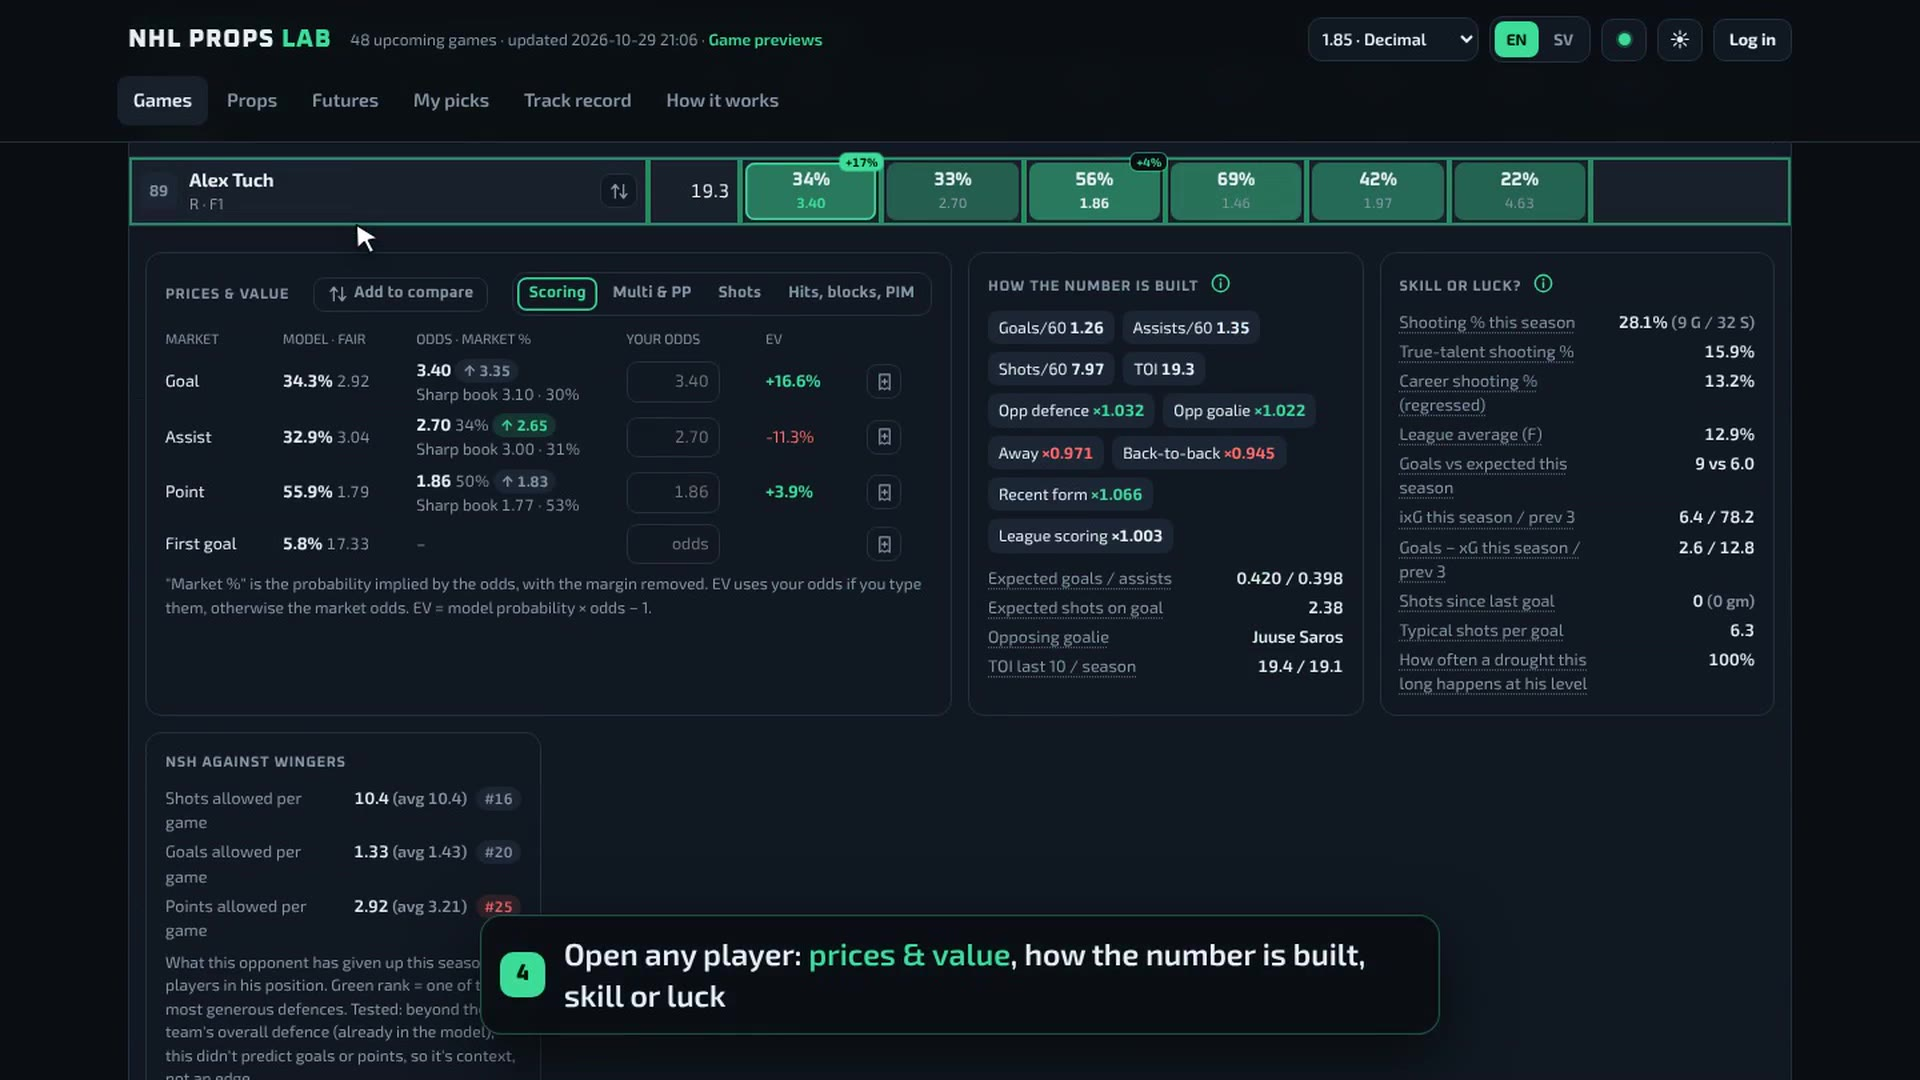
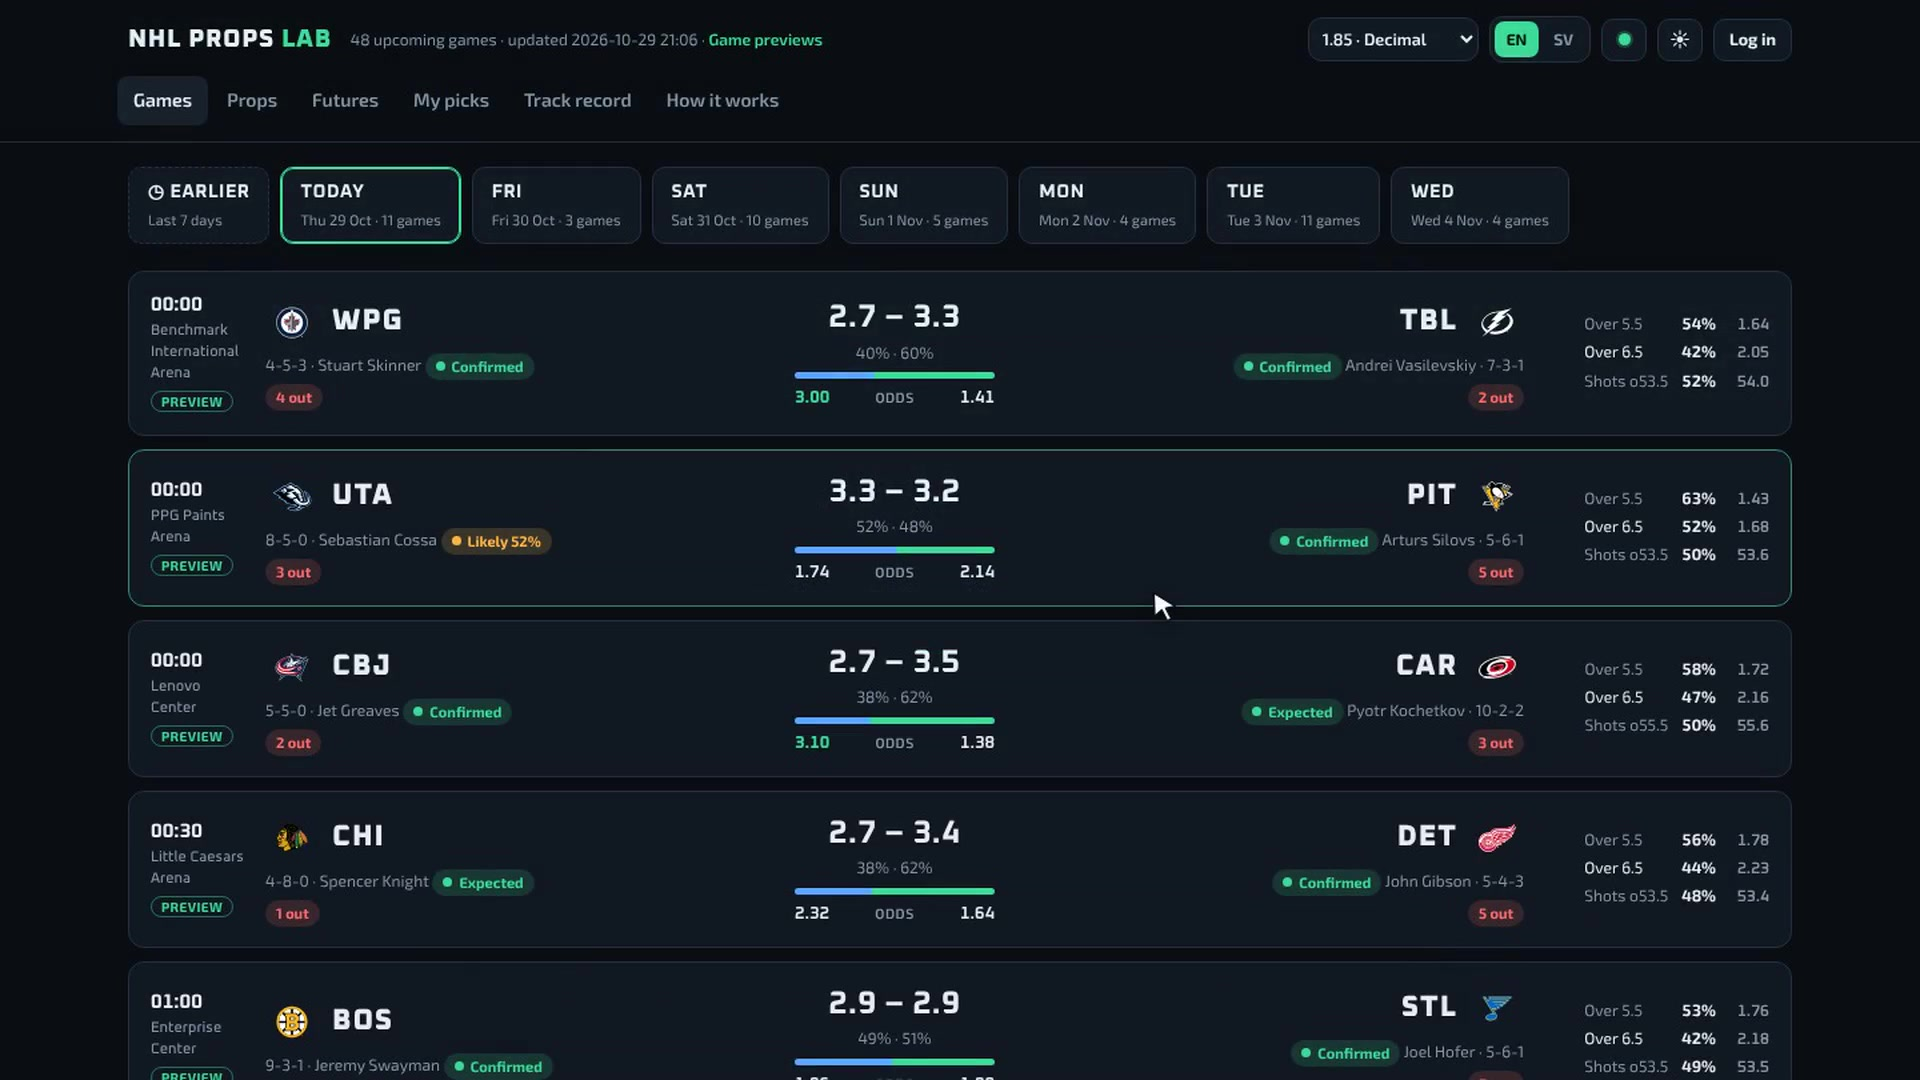
Tour video: click to play (big play button, the video or Watch the tour), no autoplay, no download, poster = first clean games frame
Claude-Session: https://claude.ai/code/session_0199MUMwZ1D6Kb7JdQcgnFbf

diff --git a/nhlprops/landing.html b/nhlprops/landing.html
@@ -42,6 +42,12 @@ button{font:inherit;color:inherit;cursor:pointer}
 .tourbox{position:relative;max-width:1040px;margin:0 auto;border-radius:18px;overflow:hidden;border:1px solid var(--line);background:#0a0e13;
   box-shadow:0 30px 80px rgba(0,0,0,.45),0 0 0 1px rgba(255,255,255,.02) inset,0 0 60px rgba(var(--glow),.08)}
 .tourbox video{display:block;width:100%;height:auto;aspect-ratio:16/9;background:#0a0e13}
+.tourplay{position:absolute;inset:0;display:grid;place-items:center;border:0;padding:0;background:linear-gradient(180deg,rgba(10,14,19,0) 40%,rgba(10,14,19,.35));cursor:pointer}
+.tourplay span{display:grid;place-items:center;width:84px;height:84px;border-radius:50%;background:rgba(61,220,151,.95);box-shadow:0 12px 40px rgba(0,0,0,.45),0 0 0 10px rgba(61,220,151,.18);transition:transform .25s cubic-bezier(.2,.8,.2,1),box-shadow .25s}
+.tourplay svg{width:34px;height:34px;margin-left:5px;fill:#04170d}
+.tourplay:hover span,.tourplay:focus-visible span{transform:scale(1.07);box-shadow:0 14px 44px rgba(0,0,0,.5),0 0 0 14px rgba(61,220,151,.22)}
+.tourplay[hidden]{display:none}
+@media (max-width:640px){.tourplay span{width:62px;height:62px}.tourplay svg{width:26px;height:26px}}
 .tourbtn{display:inline-flex;align-items:center;gap:8px}.tourbtn svg{width:15px;height:15px;fill:currentColor}
 .wrap{max-width:1180px;margin:0 auto;padding-left:max(16px,env(safe-area-inset-left,0px));padding-right:max(16px,env(safe-area-inset-right,0px))}
 .lg-l{display:none}
@@ -319,7 +325,8 @@ footer{border-top:1px solid var(--line);padding:28px 0 calc(28px + env(safe-area
     <div class="wrap">
       <div class="sh" style="justify-content:center;text-align:center"><div><h2 data-t="tour_h"></h2><p class="sub" data-t="tour_sub" style="margin-inline:auto"></p></div></div>
       <div class="tourbox">
-        <video id="tourvid" muted loop playsinline controls preload="none" poster="assets/tour-poster.jpg" data-src720="assets/tour-720.mp4" data-src1080="assets/tour-1080.mp4" aria-label="A one-minute tour of NHL Props Lab"></video>
+        <video id="tourvid" playsinline preload="none" controlslist="nodownload noplaybackrate" disablepictureinpicture poster="assets/tour-poster.jpg" data-src720="assets/tour-720.mp4" data-src1080="assets/tour-1080.mp4" aria-label="A one-minute tour of NHL Props Lab"></video>
+        <button type="button" class="tourplay" id="tourplay" aria-label="Play the tour"><span><svg viewBox="0 0 24 24" aria-hidden="true"><path d="M8 5.5v13l11-6.5z"/></svg></span></button>
       </div>
     </div>
   </section>
@@ -690,20 +697,18 @@ render();
   addEventListener("resize", close);
 })();
 
-// tour video: load the right size only when it comes into view, play muted while visible, pause when it isn't
+// tour video: stands still on its poster until the visitor presses play (big button, the video itself, or "Watch the tour")
 (function(){
-  const v = document.getElementById("tourvid"); if (!v) return;
+  const v = document.getElementById("tourvid"), btn = document.getElementById("tourplay"); if (!v) return;
   let loaded = false;
   const load = () => { if (loaded) return; loaded = true;
-    const big = (window.innerWidth * (window.devicePixelRatio || 1)) > 1500;
-    v.src = big ? v.dataset.src1080 : v.dataset.src720; };
-  const reduce = window.matchMedia && matchMedia("(prefers-reduced-motion: reduce)").matches;
-  if (!("IntersectionObserver" in window)) { load(); return; }
-  new IntersectionObserver(es => es.forEach(e => {
-    if (e.isIntersecting){ load(); if (!reduce) v.play().catch(() => {}); }
-    else if (!v.paused) v.pause();
-  }), { threshold: 0.35 }).observe(v);
-  document.querySelectorAll('a[href="#tour"]').forEach(a => a.addEventListener("click", () => { load(); setTimeout(() => { v.currentTime = 0; v.play().catch(() => {}); }, 450); }));
+    v.src = (window.innerWidth * (window.devicePixelRatio || 1)) > 1500 ? v.dataset.src1080 : v.dataset.src720; };
+  const start = (fromStart) => { load(); v.controls = true; btn.hidden = true; if (fromStart) { try { v.currentTime = 0; } catch(e){} } v.play().catch(() => {}); };
+  btn.addEventListener("click", () => start(false));
+  v.addEventListener("click", () => { if (!loaded) start(false); });
+  v.addEventListener("contextmenu", e => e.preventDefault());
+  v.addEventListener("ended", () => { v.controls = false; btn.hidden = false; try { v.currentTime = 0; } catch(e){} v.load(); loaded = true; });
+  document.querySelectorAll('a[href="#tour"]').forEach(a => a.addEventListener("click", () => setTimeout(() => start(true), 450)));
 })();
 </script>
 </body>
